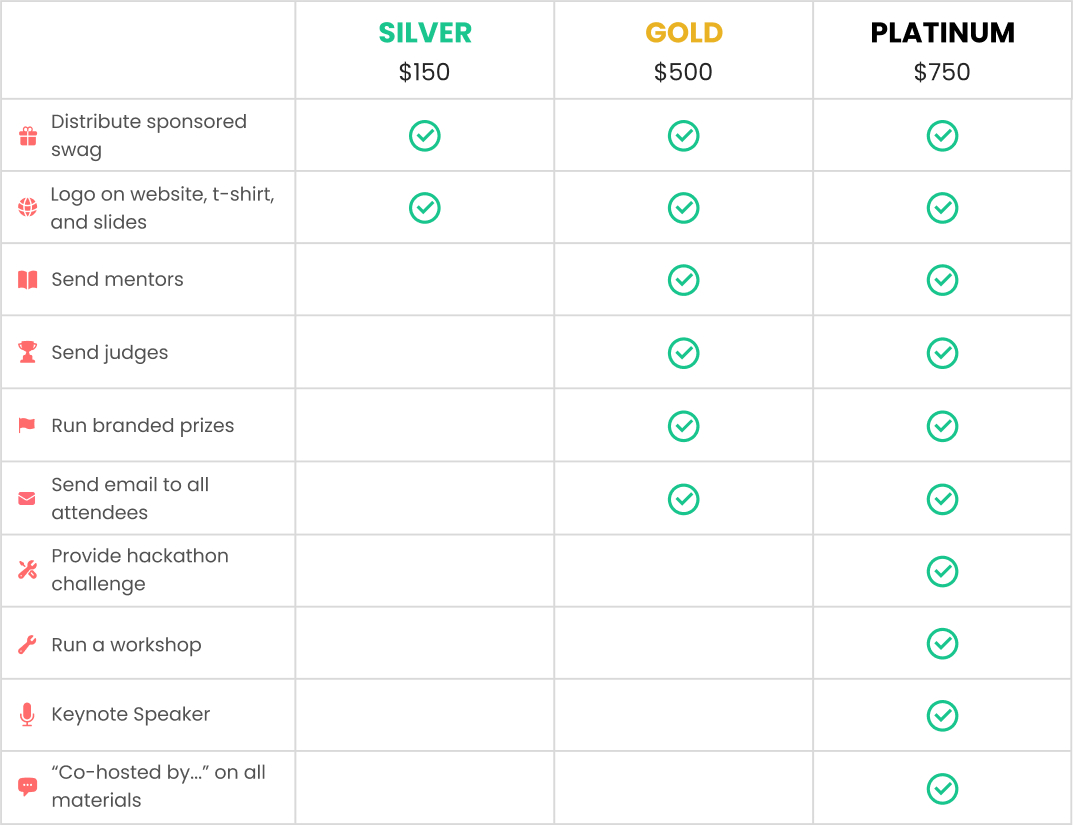
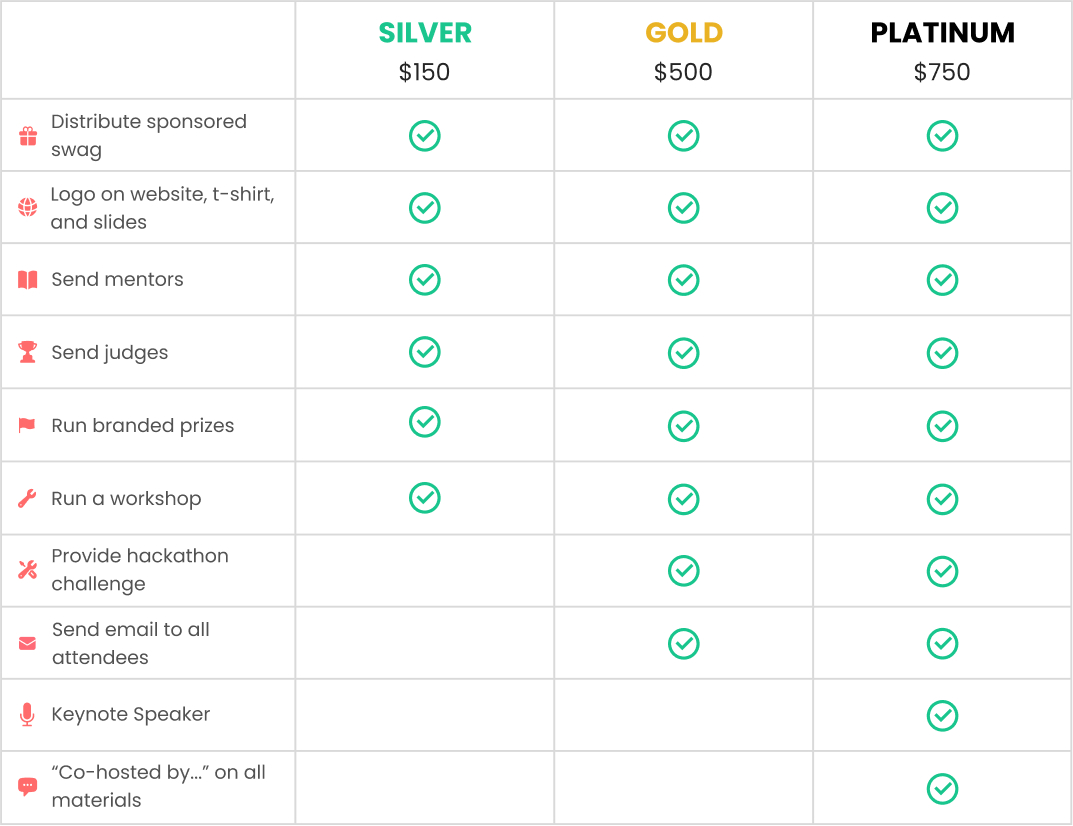
Added updated packages

diff --git a/src/components/sponsors/Prospectus.tsx b/src/components/sponsors/Prospectus.tsx
@@ -60,13 +60,13 @@ const Prospectus: React.FC<{}> = () => {
                 </div>
                 <p className='text-neutral-500 text-xl mt-3'>Inventive minds and fresh eyes can help bring a new mindset to a challenge or problem. Let HSHacks participants take a crack at challenging problems in your field of operations or in the larger world.</p>
             </div>
-            <br />
-            <br />
             <div>
-
-                <div className='text-left mt-12 mb-24'>
-                    <p className='font-Poppins text-xl mb-2'>Interested in supporting HSHacks?</p>
-                    <p className='font-Poppins text-2xl'>Contact organizer Miguel Aenlle at <a href='mailto:miguelaenlle@icloud.com' className='font-bold'>miguelaenlle@icloud.com</a> to chat about next steps!</p>
+                <h1 className='text-red-400 font-Poppins font-bold text-3xl mt-20'><a className=''>Sponsor </a>packages</h1>
+                <p className='mt-3 text-xl mb-12 text-neutral-600'>If you have any questions or would like to discuss adjustments for packages, please contact <a href='mailto:miguelaenlle@icloud.com' className='hover:underline font-bold text-black'>miguelaenlle@icloud.com</a>. All sponsorships are fully tax deductible under our fiscally sponsored 501(c) nonprofit status.</p>
+                <img className="mt-10" src={sponsorPackages}></img>
+                <div className='text-center mt-12 mb-24'>
+                    <p className='font-Poppins text-lg'>Ready to inspire the next generation of developers?</p>
+                    <p className='font-Poppins text-xl'>Contact <a href='mailto:miguelaenlle@icloud.com' className='font-bold'>miguelaenlle@icloud.com</a> to discuss next steps!</p>
                 </div>
             </div>
         </div>
